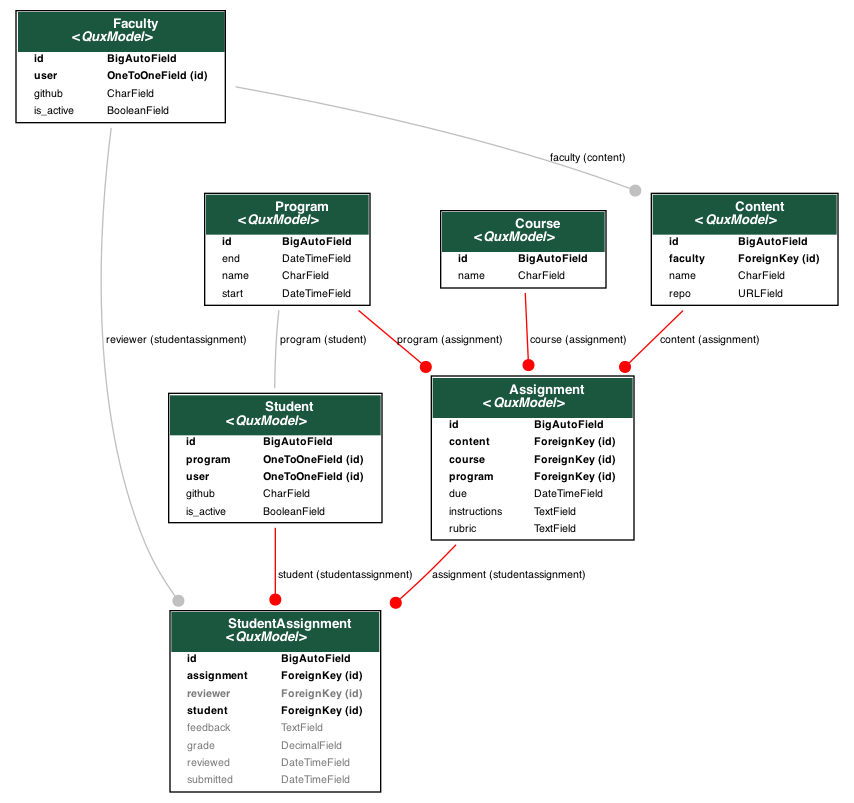
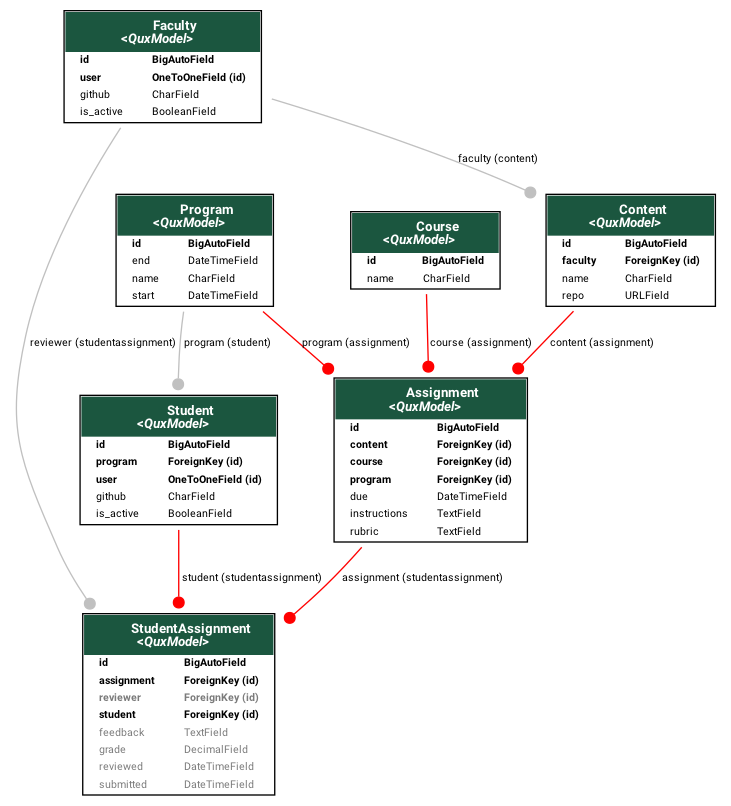
fix: Student <-> Program should be FK and not 1:1

diff --git a/apps/voyage/migrations/0001_initial.py b/apps/voyage/migrations/0001_initial.py
@@ -1,0 +1,290 @@
+# Generated by Django 4.2.7 on 2024-02-13 02:20
+
+from django.conf import settings
+from django.db import migrations, models
+import django.db.models.deletion
+
+
+class Migration(migrations.Migration):
+    initial = True
+
+    dependencies = [
+        migrations.swappable_dependency(settings.AUTH_USER_MODEL),
+    ]
+
+    operations = [
+        migrations.CreateModel(
+            name="Faculty",
+            fields=[
+                (
+                    "id",
+                    models.BigAutoField(
+                        auto_created=True,
+                        primary_key=True,
+                        serialize=False,
+                        verbose_name="ID",
+                    ),
+                ),
+                (
+                    "dtm_created",
+                    models.DateTimeField(auto_now_add=True, verbose_name="DTM Created"),
+                ),
+                (
+                    "dtm_updated",
+                    models.DateTimeField(auto_now=True, verbose_name="DTM Updated"),
+                ),
+                ("github", models.CharField(max_length=39, unique=True)),
+                ("is_active", models.BooleanField(default=True)),
+                (
+                    "user",
+                    models.OneToOneField(
+                        on_delete=django.db.models.deletion.CASCADE,
+                        to=settings.AUTH_USER_MODEL,
+                    ),
+                ),
+            ],
+            options={
+                "abstract": False,
+            },
+        ),
+        migrations.CreateModel(
+            name="Content",
+            fields=[
+                (
+                    "id",
+                    models.BigAutoField(
+                        auto_created=True,
+                        primary_key=True,
+                        serialize=False,
+                        verbose_name="ID",
+                    ),
+                ),
+                (
+                    "dtm_created",
+                    models.DateTimeField(auto_now_add=True, verbose_name="DTM Created"),
+                ),
+                (
+                    "dtm_updated",
+                    models.DateTimeField(auto_now=True, verbose_name="DTM Updated"),
+                ),
+                ("name", models.CharField(max_length=128)),
+                ("repo", models.URLField(max_length=240, unique=True)),
+                (
+                    "faculty",
+                    models.ForeignKey(
+                        on_delete=django.db.models.deletion.DO_NOTHING,
+                        to="voyage.faculty",
+                    ),
+                ),
+            ],
+            options={
+                "abstract": False,
+            },
+        ),
+        migrations.CreateModel(
+            name="Program",
+            fields=[
+                (
+                    "id",
+                    models.BigAutoField(
+                        auto_created=True,
+                        primary_key=True,
+                        serialize=False,
+                        verbose_name="ID",
+                    ),
+                ),
+                (
+                    "dtm_created",
+                    models.DateTimeField(auto_now_add=True, verbose_name="DTM Created"),
+                ),
+                (
+                    "dtm_updated",
+                    models.DateTimeField(auto_now=True, verbose_name="DTM Updated"),
+                ),
+                ("name", models.CharField(max_length=128)),
+                ("start", models.DateTimeField()),
+                ("end", models.DateTimeField()),
+            ],
+            options={
+                "abstract": False,
+            },
+        ),
+        migrations.CreateModel(
+            name="Course",
+            fields=[
+                (
+                    "id",
+                    models.BigAutoField(
+                        auto_created=True,
+                        primary_key=True,
+                        serialize=False,
+                        verbose_name="ID",
+                    ),
+                ),
+                (
+                    "dtm_created",
+                    models.DateTimeField(auto_now_add=True, verbose_name="DTM Created"),
+                ),
+                (
+                    "dtm_updated",
+                    models.DateTimeField(auto_now=True, verbose_name="DTM Updated"),
+                ),
+                ("name", models.CharField(max_length=128, unique=True)),
+            ],
+            options={
+                "abstract": False,
+            },
+        ),
+        migrations.CreateModel(
+            name="Assignment",
+            fields=[
+                (
+                    "id",
+                    models.BigAutoField(
+                        auto_created=True,
+                        primary_key=True,
+                        serialize=False,
+                        verbose_name="ID",
+                    ),
+                ),
+                (
+                    "dtm_created",
+                    models.DateTimeField(auto_now_add=True, verbose_name="DTM Created"),
+                ),
+                (
+                    "dtm_updated",
+                    models.DateTimeField(auto_now=True, verbose_name="DTM Updated"),
+                ),
+                (
+                    "program",
+                    models.ForeignKey(
+                        on_delete=django.db.models.deletion.CASCADE, to="voyage.program"
+                    ),
+                ),
+                (
+                    "course",
+                    models.ForeignKey(
+                        on_delete=django.db.models.deletion.CASCADE, to="voyage.course"
+                    ),
+                ),
+                (
+                    "content",
+                    models.ForeignKey(
+                        on_delete=django.db.models.deletion.CASCADE, to="voyage.content"
+                    ),
+                ),
+                ("due", models.DateTimeField()),
+                ("instructions", models.TextField()),
+                ("rubric", models.TextField()),
+            ],
+            options={
+                "abstract": False,
+                "unique_together": ("program", "course", "content"),
+            },
+        ),
+        migrations.CreateModel(
+            name="Student",
+            fields=[
+                (
+                    "id",
+                    models.BigAutoField(
+                        auto_created=True,
+                        primary_key=True,
+                        serialize=False,
+                        verbose_name="ID",
+                    ),
+                ),
+                (
+                    "dtm_created",
+                    models.DateTimeField(auto_now_add=True, verbose_name="DTM Created"),
+                ),
+                (
+                    "dtm_updated",
+                    models.DateTimeField(auto_now=True, verbose_name="DTM Updated"),
+                ),
+                ("github", models.CharField(max_length=39, unique=True)),
+                ("is_active", models.BooleanField(default=True)),
+                (
+                    "program",
+                    models.ForeignKey(
+                        on_delete=django.db.models.deletion.DO_NOTHING,
+                        to="voyage.program",
+                    ),
+                ),
+                (
+                    "user",
+                    models.OneToOneField(
+                        on_delete=django.db.models.deletion.CASCADE,
+                        to=settings.AUTH_USER_MODEL,
+                    ),
+                ),
+            ],
+            options={
+                "abstract": False,
+            },
+        ),
+        migrations.CreateModel(
+            name="StudentAssignment",
+            fields=[
+                (
+                    "id",
+                    models.BigAutoField(
+                        auto_created=True,
+                        primary_key=True,
+                        serialize=False,
+                        verbose_name="ID",
+                    ),
+                ),
+                (
+                    "dtm_created",
+                    models.DateTimeField(auto_now_add=True, verbose_name="DTM Created"),
+                ),
+                (
+                    "dtm_updated",
+                    models.DateTimeField(auto_now=True, verbose_name="DTM Updated"),
+                ),
+                (
+                    "grade",
+                    models.DecimalField(
+                        blank=True,
+                        decimal_places=2,
+                        default=None,
+                        max_digits=5,
+                        null=True,
+                    ),
+                ),
+                (
+                    "submitted",
+                    models.DateTimeField(blank=True, default=None, null=True),
+                ),
+                ("reviewed", models.DateTimeField(blank=True, default=None, null=True)),
+                ("feedback", models.TextField(blank=True, default=None, null=True)),
+                (
+                    "assignment",
+                    models.ForeignKey(
+                        on_delete=django.db.models.deletion.CASCADE,
+                        to="voyage.assignment",
+                    ),
+                ),
+                (
+                    "reviewer",
+                    models.ForeignKey(
+                        blank=True,
+                        default=None,
+                        null=True,
+                        on_delete=django.db.models.deletion.DO_NOTHING,
+                        to="voyage.faculty",
+                    ),
+                ),
+                (
+                    "student",
+                    models.ForeignKey(
+                        on_delete=django.db.models.deletion.CASCADE, to="voyage.student"
+                    ),
+                ),
+            ],
+            options={
+                "abstract": False,
+            },
+        ),
+    ]

diff --git a/apps/voyage/models.py b/apps/voyage/models.py
@@ -81,7 +81,7 @@ class Student(QuxModel):
     user = models.OneToOneField(get_user_model(), on_delete=models.CASCADE)
     github = models.CharField(max_length=39, unique=True)
     is_active = models.BooleanField(default=True)
-    program = models.OneToOneField("Program", on_delete=models.DO_NOTHING)
+    program = models.ForeignKey(Program, on_delete=models.DO_NOTHING)
 
     def courses(self):
         return Course.objects.none()

diff --git a/README.md b/README.md
@@ -28,7 +28,22 @@ source venv/bin/activate
 
 # Upgrade pip and install packages
 pip install --upgrade pip
-pip install -r requirements/dev.txt
+```
+
+You get this error if pip is not running at least version 24.0 
+
+```shell
+$ pip install -r requirements/prod.txt 
+Usage: pip [options]
+
+ERROR: Invalid requirement: pygraphviz==1.11 --config-settings="--global-option=build_ext" --config-settings="--global-option=-I$(brew --prefix graphviz)/include/" --config-settings="--global-option=-L$(brew --prefix graphviz)/lib/"; sys_platform == "darwin"
+pip: error: no such option: --config-settings
+```
+
+Upgrading pip will solve the problem.
+
+```shell
+pip install -r requirements/prod.txt
 
 # Migrate models to db.sqlite3
 python manage.py migrate

diff --git a/ASSIGNMENT.md b/ASSIGNMENT.md
@@ -8,6 +8,10 @@ Build a web application that allows
 
 ## Data Model
 
+Color coding:<br>
+– Gray lines = `on_delete=DO_NOTHING`<br>
+– Red lines = `on_delete=CASCADE`
+
 [![Voyage Data Model](voyage.png)](voyage.png)
 
 ## Tasks
